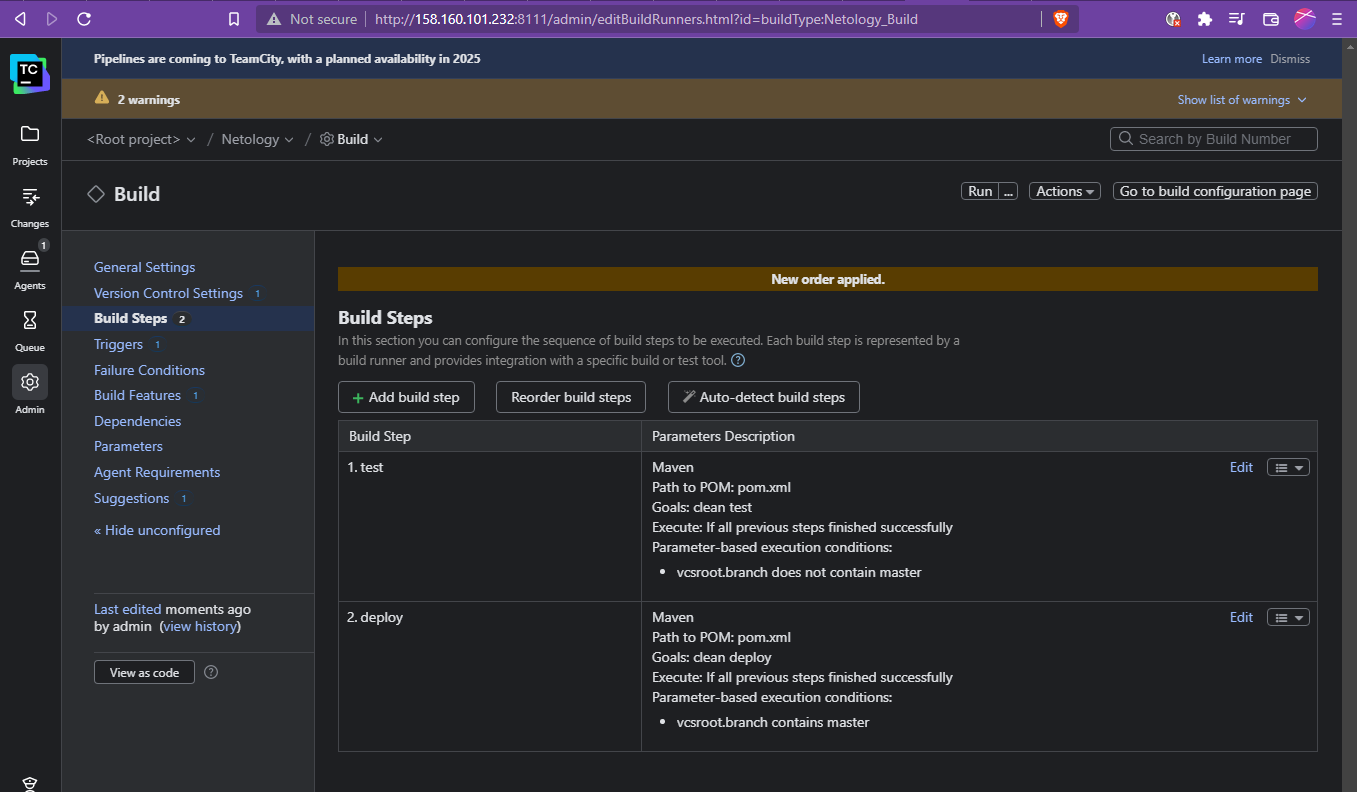
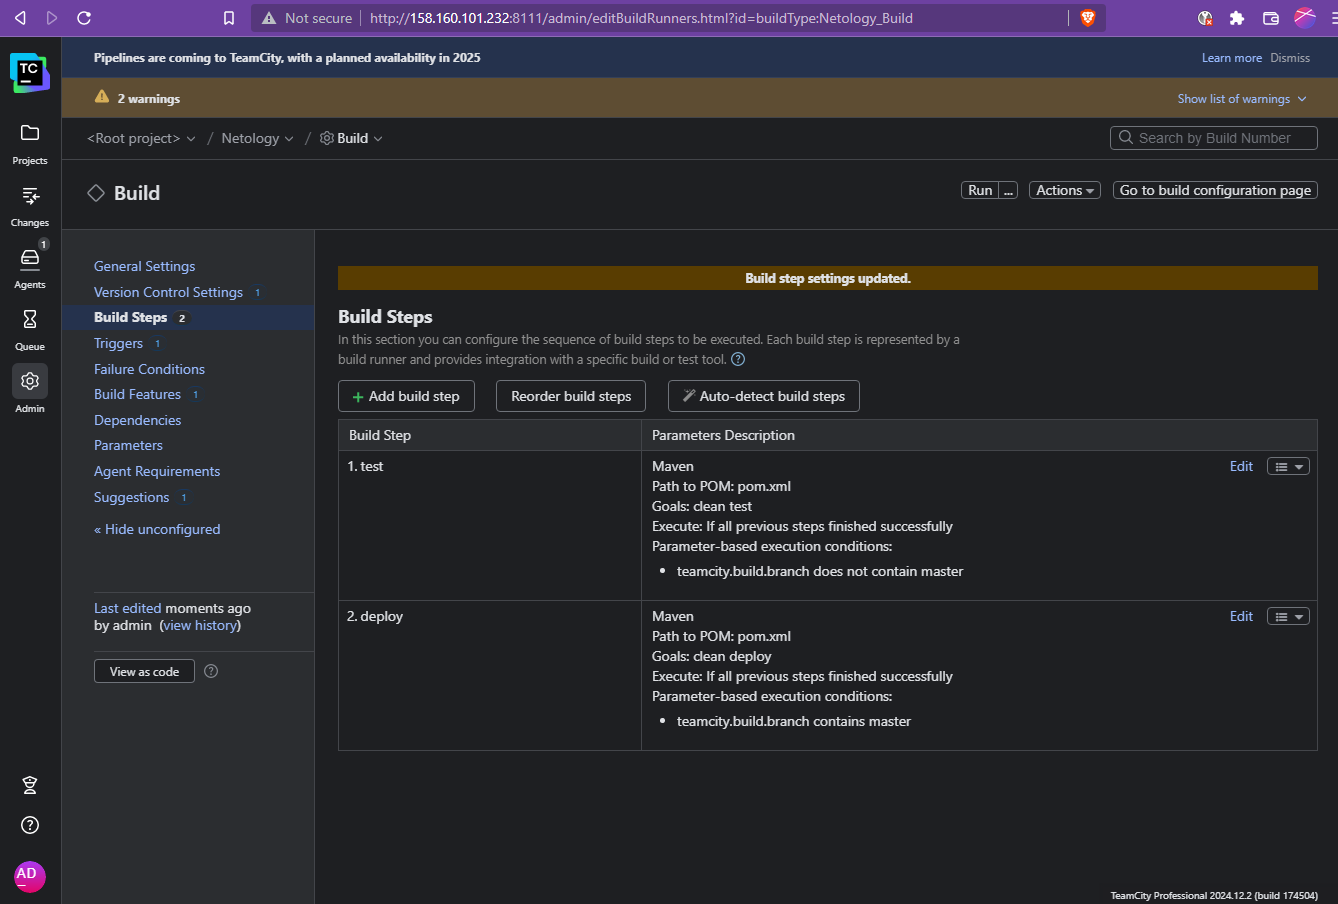
ci-04

diff --git a/04/README.md b/04/README.md
@@ -1,7 +1,83 @@
 # Teamcity
 
-## TASK
+## Устанавливаем TeamCity
 
-![tf](img/tf-ver.png)
+![tf](img/04-tc-create-2-1st-start.png)
 
-## TASK2
+![tf](img/04-tc-create-3-startingt.png)
+
+Добавляем агент:
+
+![tf](img/04-tc-create-4-agentadded.png)
+
+## Создаём проект и добавляем шаги сборки
+
+Создаём сборку, которая будет собирать наш тестовый проект из репозитория [https://github.com/Alex-AVS/example-teamcity.git](https://github.com/Alex-AVS/example-teamcity.git)
+
+![tf](img/04-tc-prj-1-createbuildcfg.png)
+
+![tf](img/04-tc-prj-1-createbuildcfg-2.png)
+
+Запускаем первую сборку:
+
+![tf](img/04-tc-prj-2-building.png)
+
+![tf](img/04-tc-prj-3-build-done.png)
+
+Добавляем условия сборки для deploy и test, Меняем pom.xml и settings.xml
+
+![tf](img/04-tc-prj-4-master-branch-condition-2steps.png)
+
+Собираем снова:
+
+![tf](img/04-tc-prj-5-master-build-done.png)
+
+Собранный артефакт в Nexus:
+
+![tf](img/04-tc-prj-5-master-build-nexus.png)
+
+_Пункт "8. Мигрируйте build configuration в репозиторий." - **не понятен**._ Единственное, что _относительно_ подходит под определение - 
+это пункт `Administration - Configs repository` глобальных настроек ТС. 
+Но, этого **нельзя делать** в публичный репозиторий, о чём прямо написано на странице настроек:
+
+![tf](img/04-tc-prj-6-config-sync2.png)
+
+При этом в репозиторий синхронизируется всё, включая загруженные ключи и пароли! Github автоматически блокирует найденный ключ.
+
+Конфигурация, сохранённая в ветке репозитория:
+
+![tf](img/04-tc-prj-6-config-sync-github.png)
+
+Создаём новую ветку в тестовом репозитории, добавляем новый метод `sayHungry` в класс
+
+```
+public String sayHungry(){
+		return "As hungry as a hunter!";
+	}
+```
+
+и соответствующий метод в тест:
+
+```
+@Test
+	public void welcomerSaysHungry(){
+		assertThat(welcomer.sayHungry(), containsString("hunter"));
+	}
+
+```
+Коммитим, проверяем, что сборка test запустилась:
+
+![tf](img/04-tc-prj-7-newbranch-buid.png)
+
+Тесты пройдены
+
+![tf](img/04-tc-prj-7-newbranch-buid-done.png)
+
+Настраиваем путь до артефактов:
+
+![tf](img/04-tc-prj-8-master-artifacts-setting.png)
+
+Собираем master. Артефакты появились в результатах:
+
+![tf](img/04-tc-prj-8-master-artifacts.png)
+
